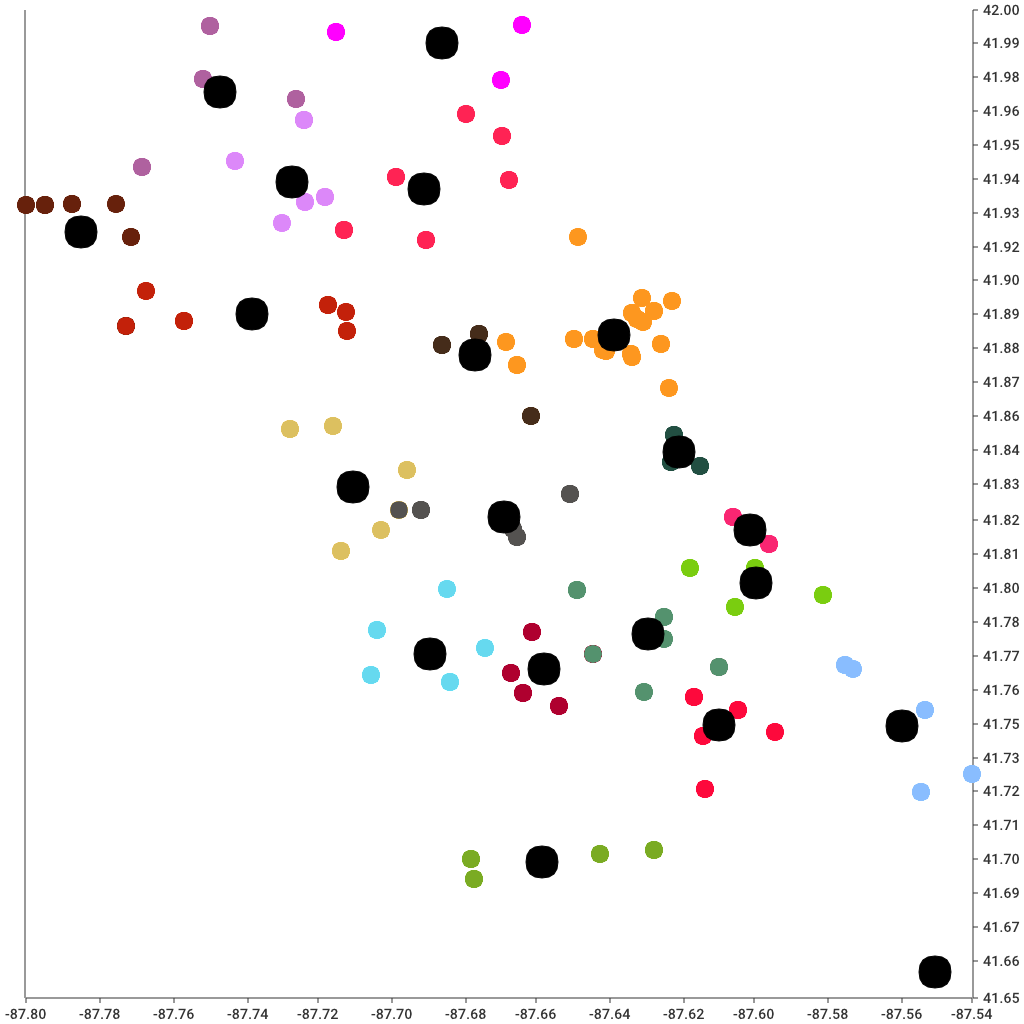
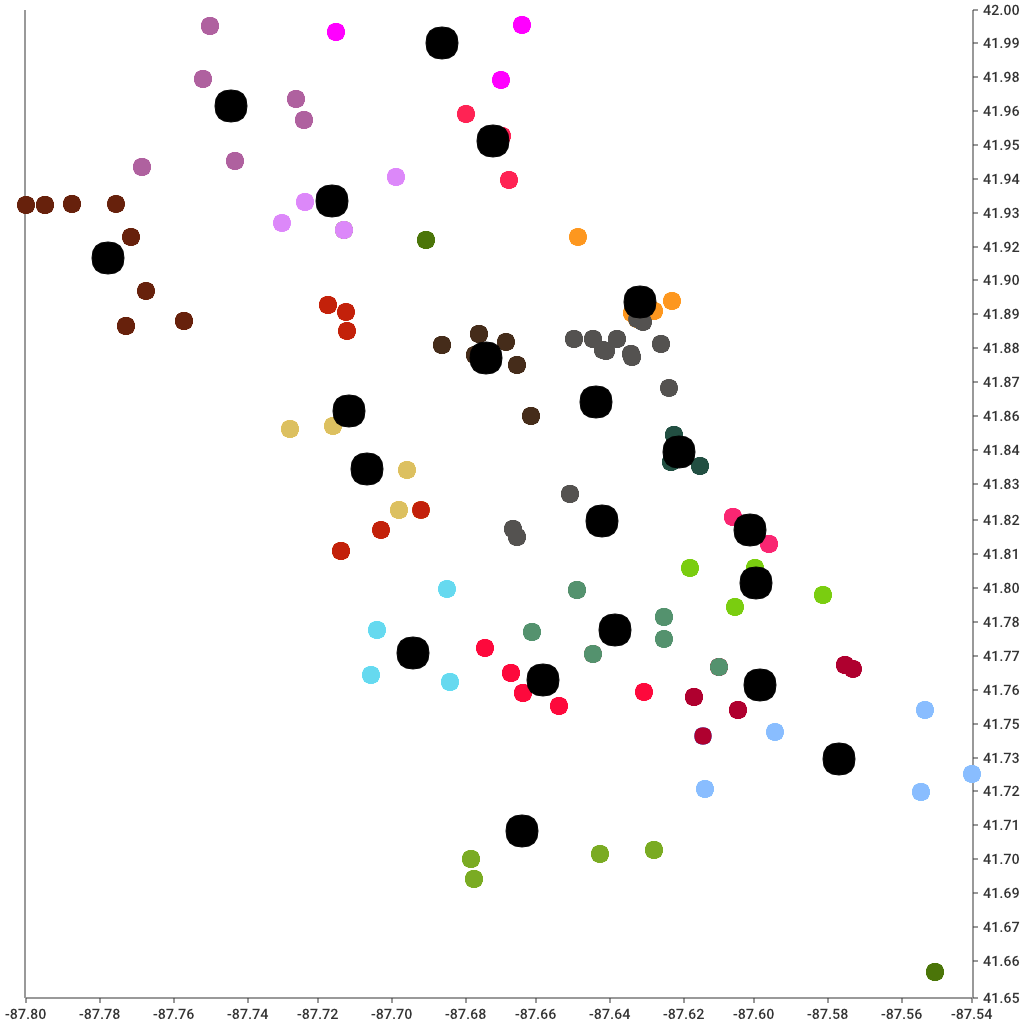
sort neighbour cluster without 0

diff --git a/main.go b/main.go
@@ -15,6 +15,7 @@ import (
 	"encoding/csv"
 	"fmt"
 	"os"
+	"sort"
 	"strconv"
 )
 
@@ -43,34 +44,64 @@ func main() {
 	iter := 0
 	for max-min > 10 {
 		var count3 []int
-
+		type sorted struct {
+			cl int
+			dt float64
+		}
+		var sortcd []sorted
+		for i, _ := range clusters {
+			// search nearest neighbour
+			// r, cd := clusters.Neighbour(clusters[i].Center, 0)
+			// for _, p := range clusters[i].Observations {
+			// r, _ = c.Neighbour(p, A)
+			distA := clusters[0].Center.Distance(clusters[i].Center)
+			sortcd = append(sortcd, sorted{
+				i,
+				distA,
+			})
+			// }
+		}
+		sort.SliceStable(sortcd, func(i, j int) bool {
+			return sortcd[i].dt < sortcd[j].dt
+		})
 		//  Plan the steps of adjustment among clusters;
-
+		// 19 step (0, 1) (1,2), dst
 		for i := 0; i < len(clusters); i++ {
 
 			// cc, _ := New(20, clusters[i].Observations)
 			var diffA Observations
 			var diffB []diffsort
 
-			if len(clusters[i].Observations) > 102 {
-				//call borderadjust, get new cluster A & B
-				//cari neighbour yang isinya sedikit (HOW?)
-				B, _ := clusters.Neighbour(clusters[i].Center, i)
-				if len(clusters[B].Observations) > 102 {
-					fmt.Println("overload")
-				}
-				diffA, diffB = clusters.borderadjust(i, B)
+			if len(clusters[i].Observations) < 102 {
+				continue
+			}
 
-				if len(diffA) == 0 && len(diffB) == 0 {
-					continue
-				} else if len(diffA) != 0 && len(diffB) != 0 {
-					clusters[i].Observations = diffA
-					if i < (len(clusters) - 1) {
-						for j := 0; j < len(diffB); j++ {
-							clusters[B].Observations = append(clusters[B].Observations, diffB[j].data)
-						}
+			// fmt.Println(sortcd)
+			//call borderadjust, get new cluster A & B
+			if i > 0 && i < len(clusters) {
+				// B, _ = clusters.Neighbour(clusters[i].Observations[i], i)
+				diffA, diffB = clusters.borderadjust(sortcd[i-1].cl, sortcd[i].cl)
+				// fmt.Println(diffA, diffB)
+				// } else {
+				// 	diffA, diffB = clusters.borderadjust(sortcd[i].cl, sortcd[0].cl)
+			}
+
+			if len(diffA) == 0 && len(diffB) == 0 {
+				continue
+			} else if len(diffA) != 0 && len(diffB) != 0 && i > 0 {
+				clusters[sortcd[i-1].cl].Observations = diffA
+				if i > 0 && i < len(clusters) {
+					for j := 0; j < len(diffB); j++ {
+						clusters[sortcd[i].cl].Observations = append(clusters[sortcd[i].cl].Observations, diffB[j].data)
 					}
+					// } else {
+					// 	for j := 0; j < len(diffB); j++ {
+					// 		clusters[sortcd[0].cl].Observations = append(clusters[sortcd[0].cl].Observations, diffB[j].data)
+					// 	}
 				}
+				// for j := 0; j < len(diffB); j++ {
+				// 	clusters[B].Observations = append(clusters[B].Observations, diffB[j].data)
+				// }
 			}
 			clusters.Recenter()
 		}
